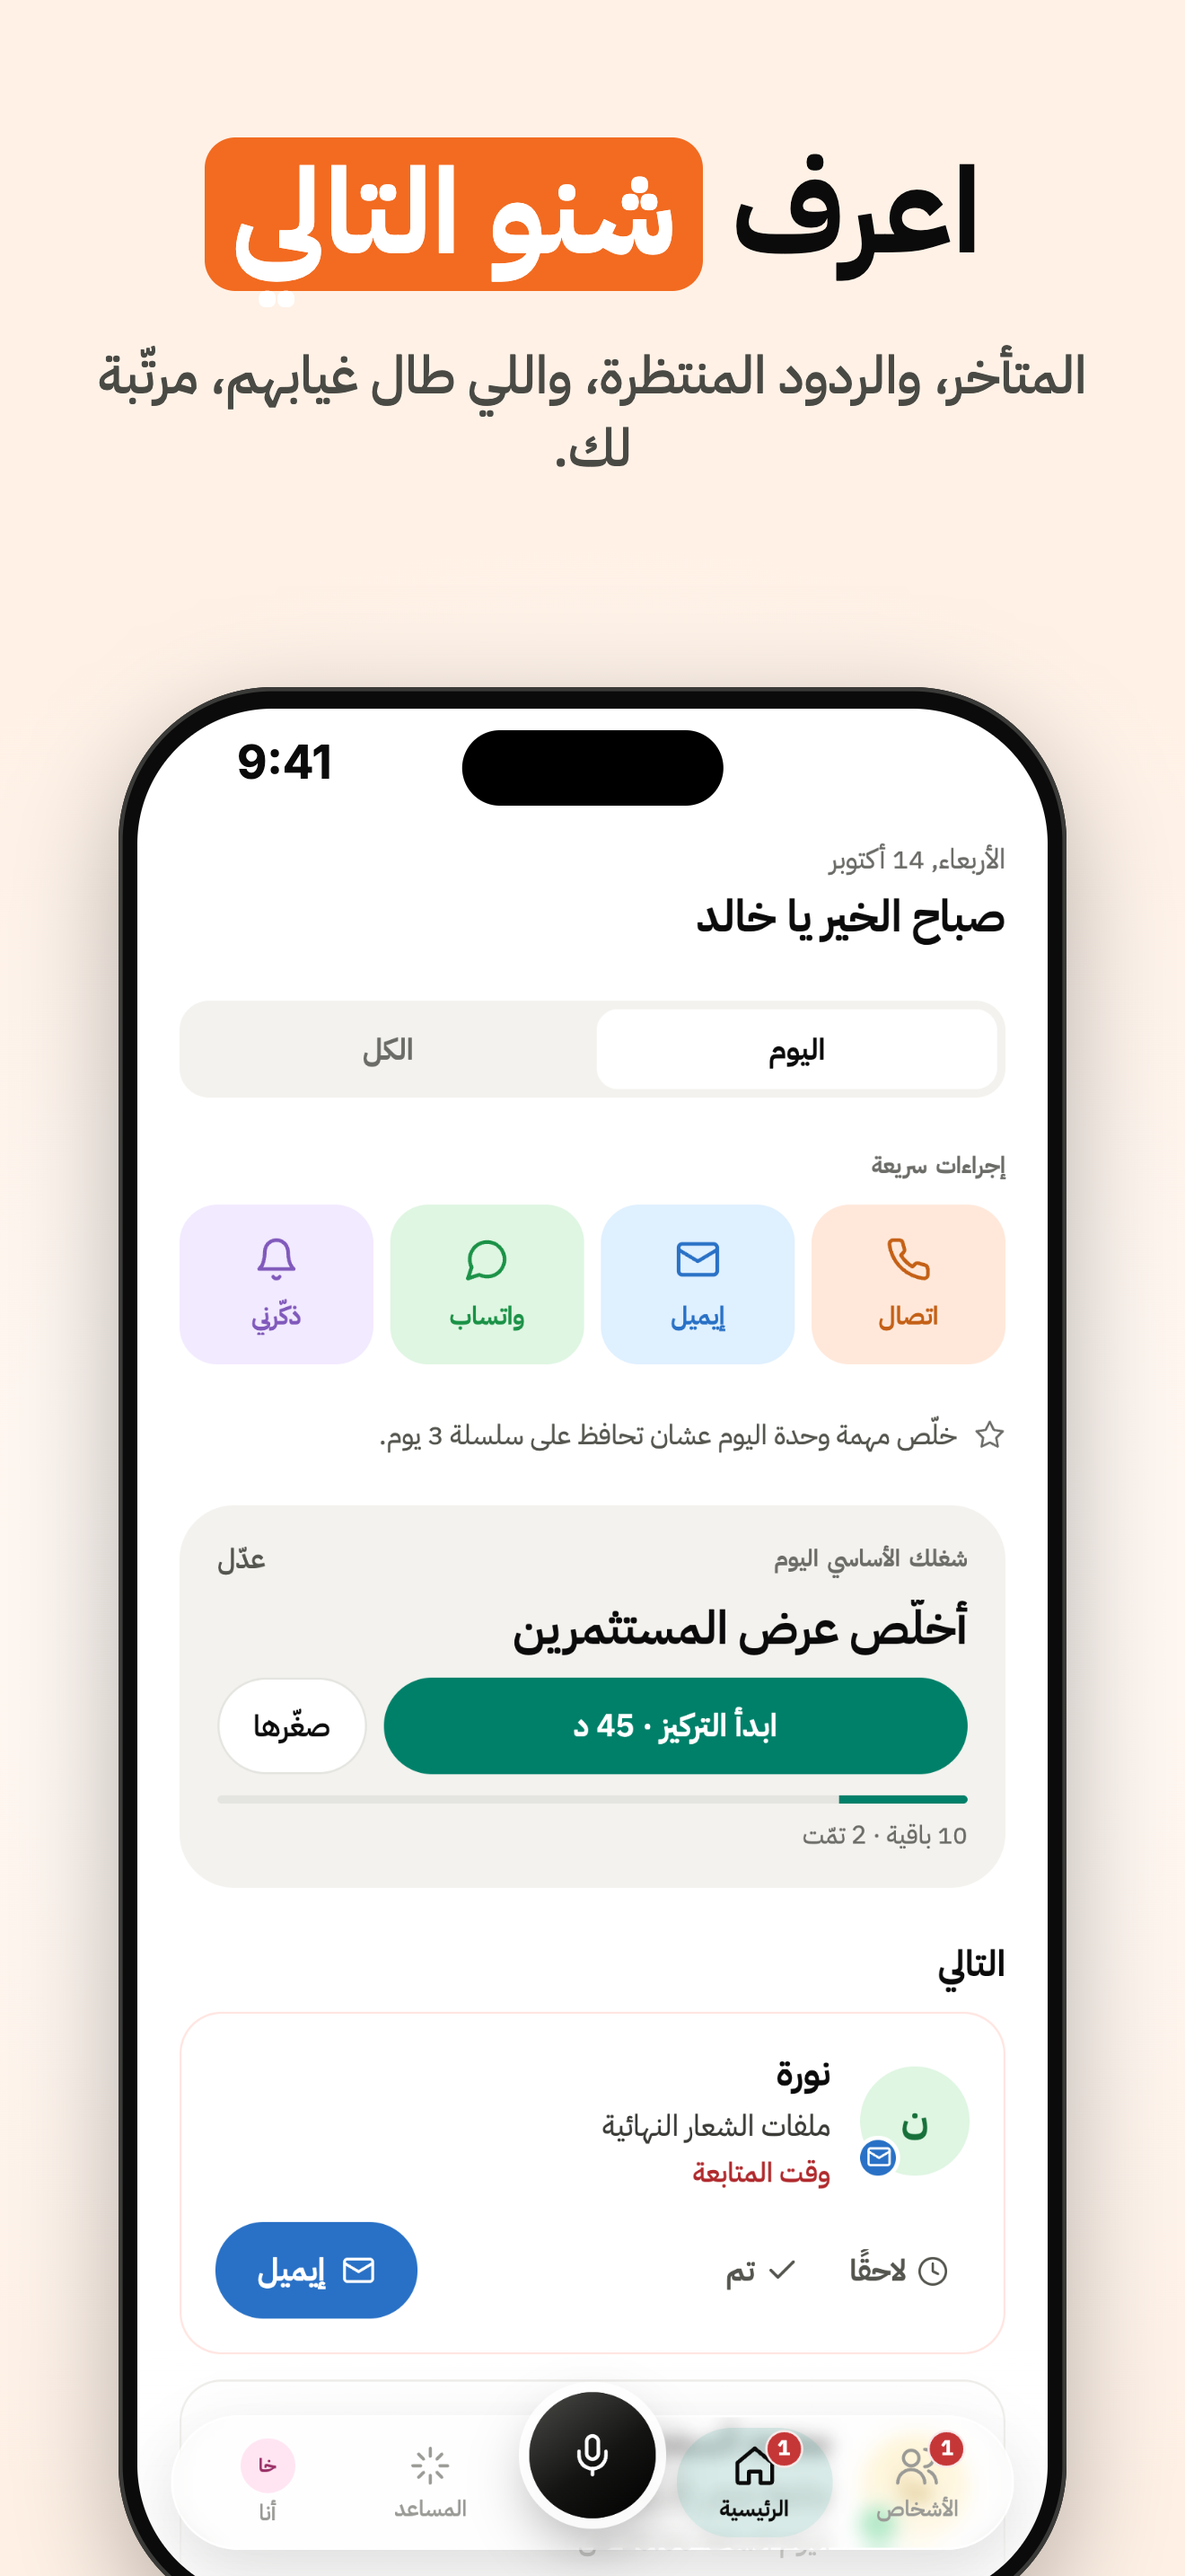
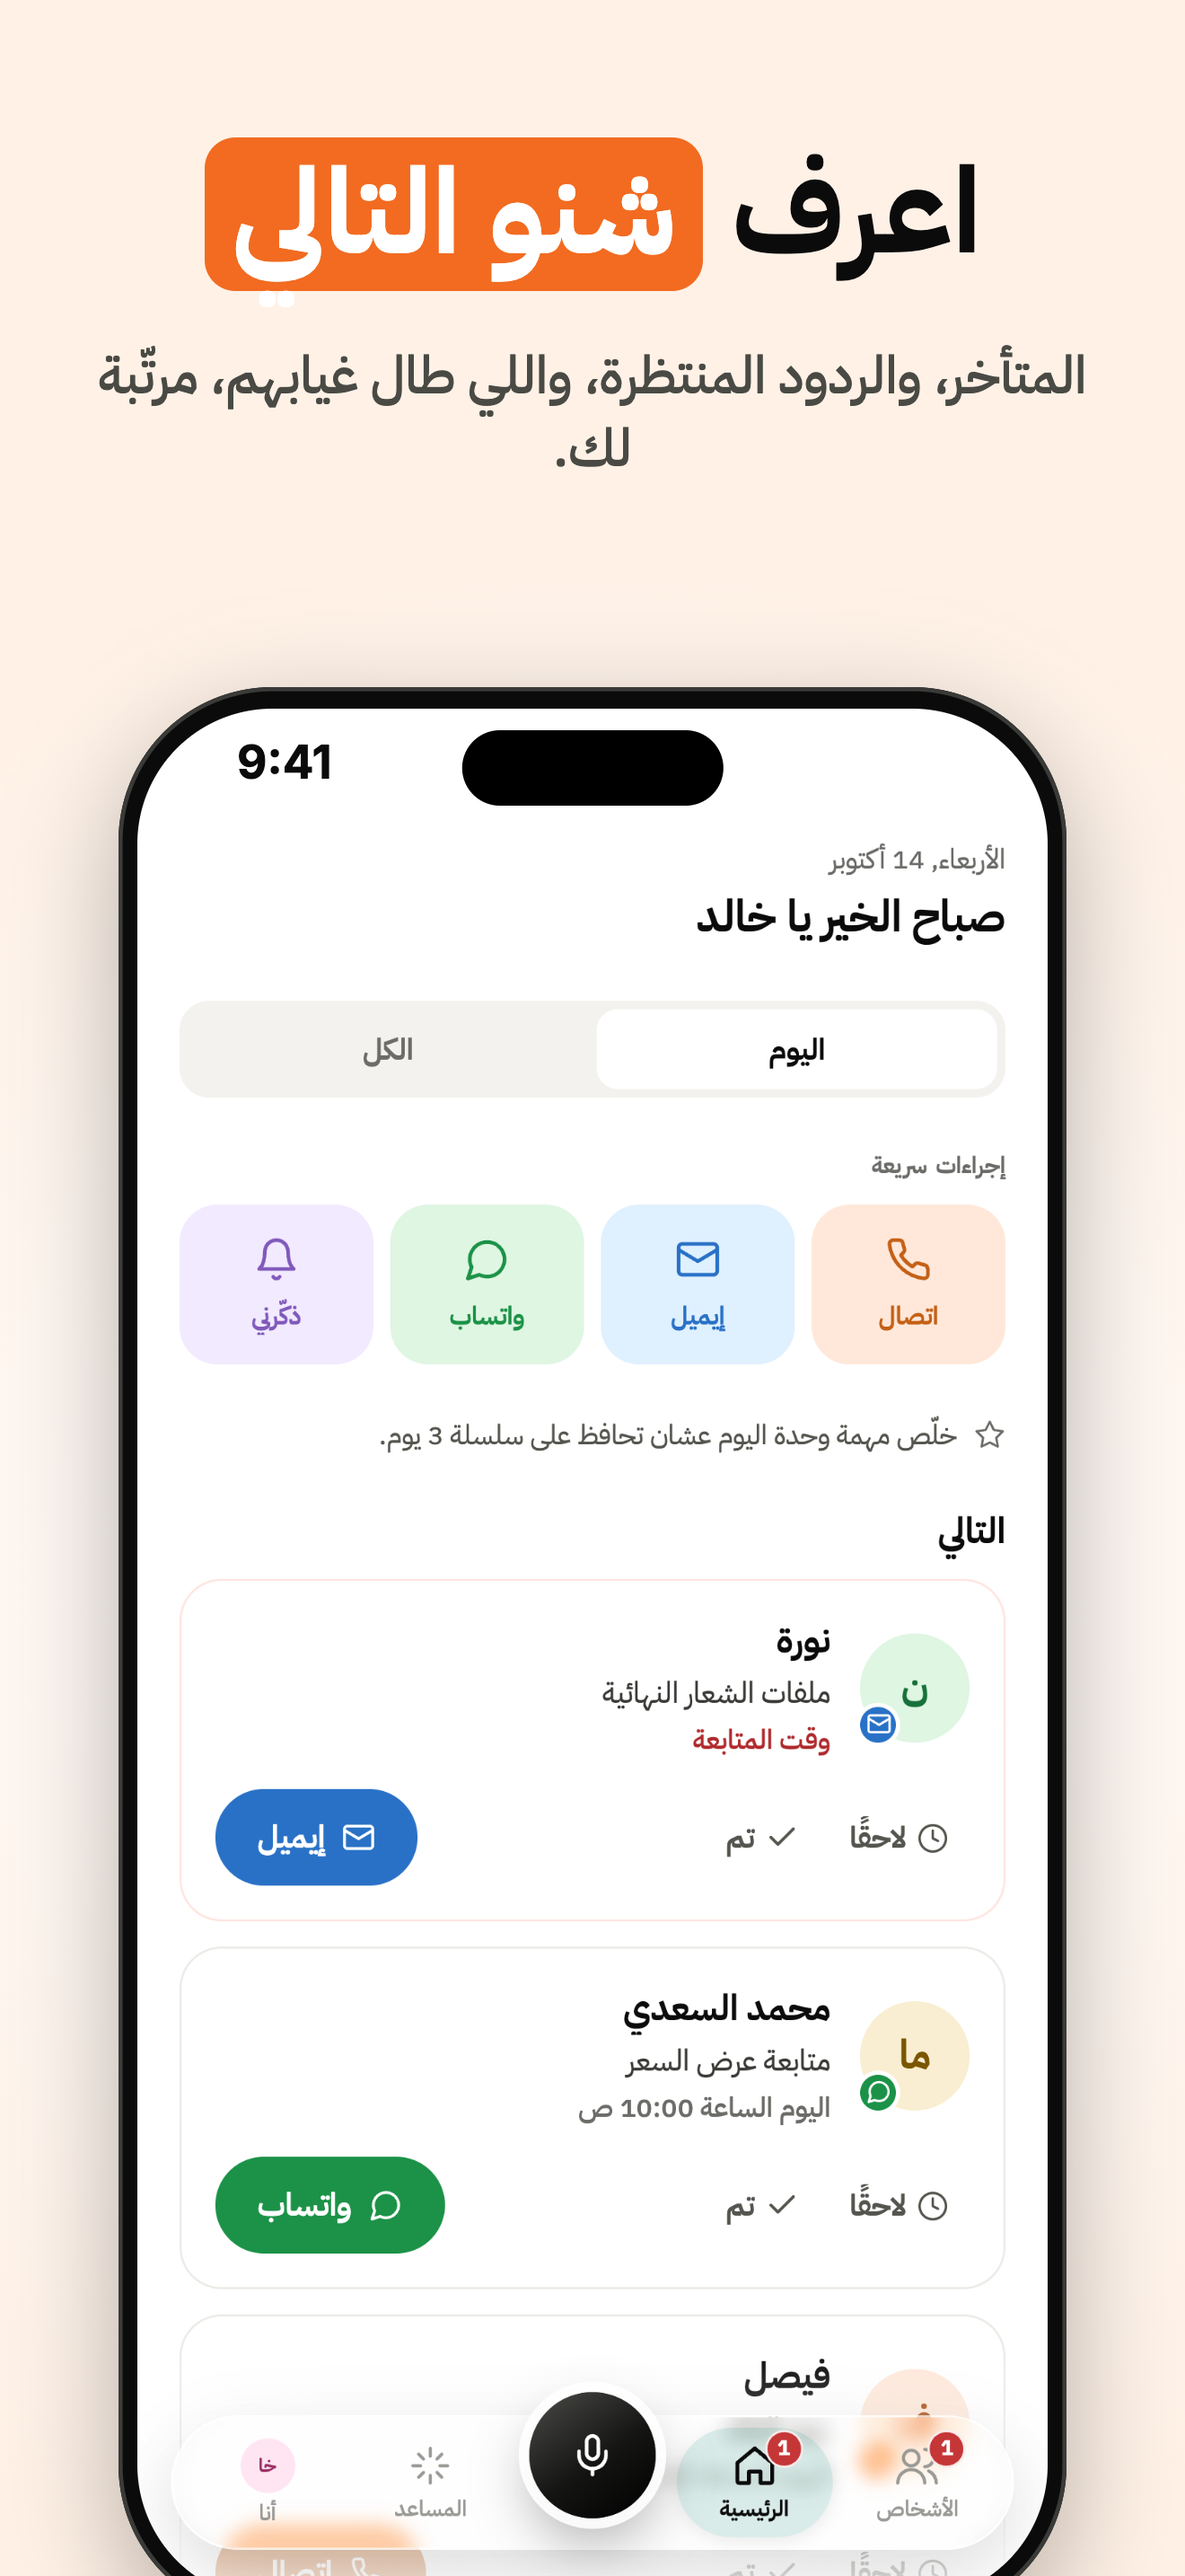
Remove the One Thing card from Today; add language-switcher store screenshot

diff --git a/app/today.tsx b/app/today.tsx
@@ -14,7 +14,6 @@ import { EveningCard } from '@/features/today/EveningCard';
 import { FirstRunCard } from '@/features/today/FirstRunCard';
 import { HabitRow } from '@/features/today/HabitRow';
 import { starterIdeas } from '@/features/today/starter-ideas';
-import { OneThingCard } from '@/features/today/OneThingCard';
 import { OneThingSheet } from '@/features/today/OneThingSheet';
 import { QuickActions } from '@/features/today/QuickActions';
 import { quickActionRoute } from '@/features/today/quick-route';
@@ -123,7 +122,6 @@ export default function Today() {
   }, []);
 
   const showFirstRun = Boolean(session?.firstRun) && !isEvening;
-  const showOneThing = !showFirstRun && !isEvening && oneThing !== null;
 
   return (
     <>
@@ -180,16 +178,6 @@ export default function Today() {
           />
         ) : showFirstRun ? (
           <FirstRunCard onSet={setFirstOneThing} onLater={skipFirstRun} suggestions={ownSuggestions} />
-        ) : showOneThing && oneThing ? (
-          <OneThingCard
-            title={oneThing.title}
-            focusMinutes={oneThing.focusMinutes}
-            done={oneThing.done}
-            progress={{ done: todaysTasks.length - openCount, total: todaysTasks.length }}
-            onEdit={() => setOneOpen(true)}
-            onLockIn={() => router.push('/focus')}
-            onShrink={() => router.push('/overwhelm')}
-          />
         ) : null}
 
         {!showFirstRun && !isEvening && oneThing === null ? (

diff --git a/scripts/store-frames.js b/scripts/store-frames.js
@@ -84,6 +84,12 @@ const SLIDES = [
     en: { pre: 'Know who', hi: 'owes you a reply', post: '', sub: 'Nudge in two taps. Nothing is sent for you.' },
     ar: { pre: 'اعرف مين', hi: 'ينتظر ردك', post: '', sub: 'ذكّره بضغطتين. وما يُرسل شي عنك.' },
   },
+  {
+    name: '7-language', path: '/settings', seed: { tasks: true },
+    bg: '#EAF1FF', accent: '#2F6BFF',
+    en: { pre: 'English and', hi: 'العربية', post: '', sub: 'Switch language in one tap, right-to-left included.' },
+    ar: { pre: 'العربية و', hi: 'English', post: '', sub: 'بدّل اللغة بضغطة، والاتجاه من اليمين لليسار.' },
+  },
 ];
 
 const MIME = { '.html': 'text/html', '.js': 'text/javascript', '.css': 'text/css', '.json': 'application/json', '.png': 'image/png', '.ttf': 'font/ttf', '.woff2': 'font/woff2', '.svg': 'image/svg+xml' };
